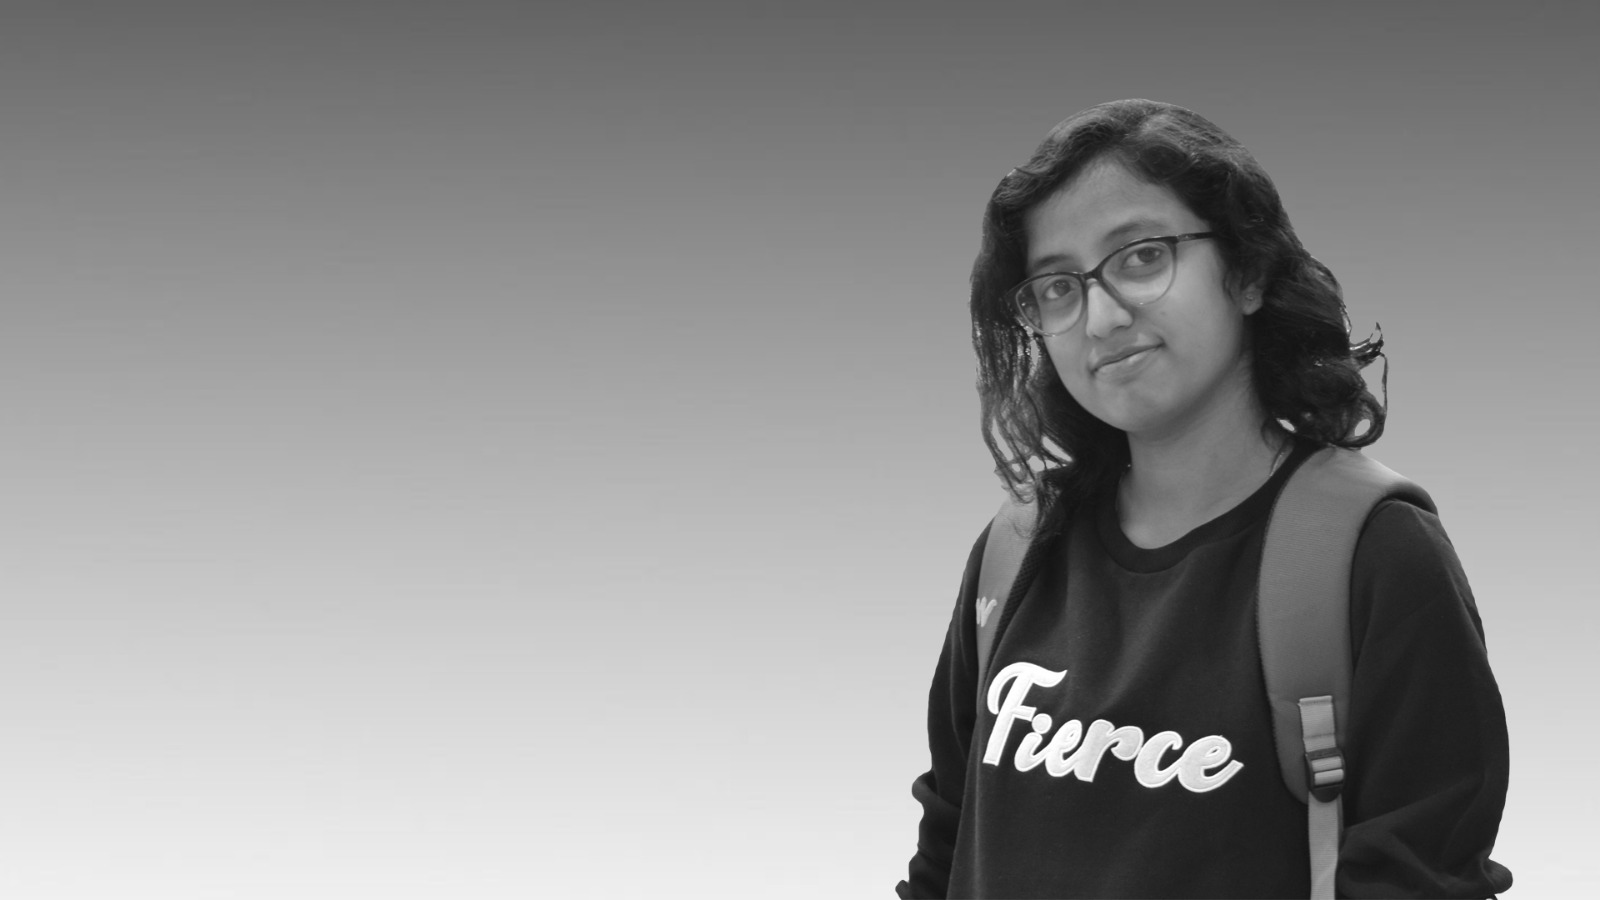
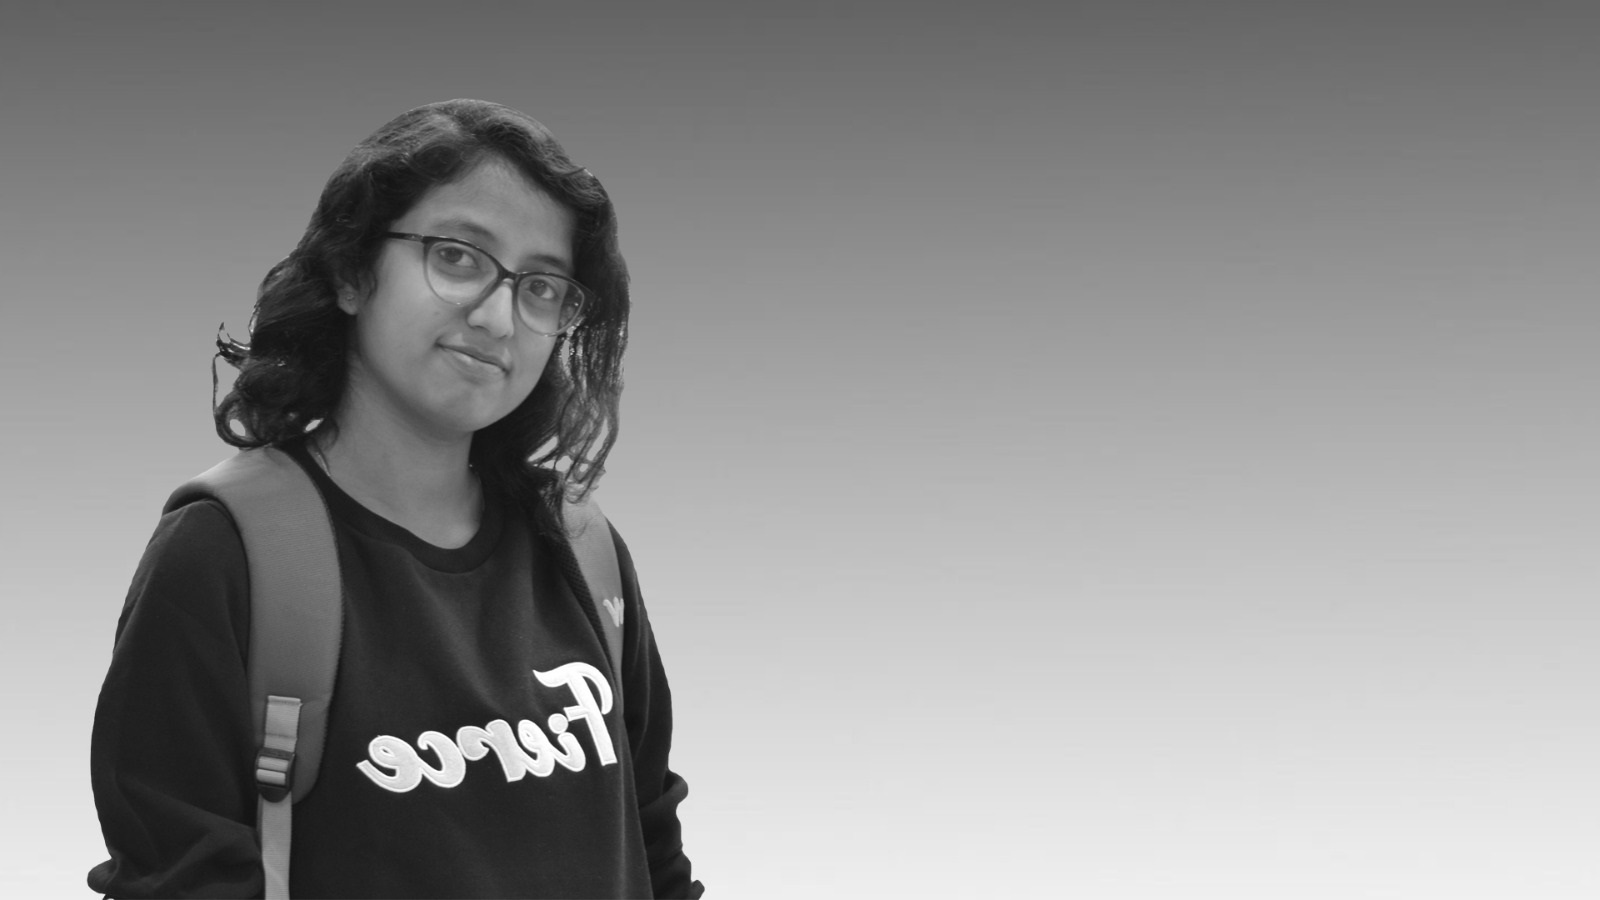
updation

diff --git a/index.html b/index.html
@@ -66,14 +66,14 @@
   <!-----------------Background End------------------------>
 
   <!-----------------------About Start (we will use BootStrap Grids Here)------------------------->
-  <div id="about" class="offset container-fluid mt-5 mb-5">
+  <div id="about" class="offset container-fluid mt-4 mb-5">
     <div class="post-heading text-center">
       <h3 class="display-4 font-weight-bold">About Me</h3>
       <hr class="w-50 mx-auto pb-5">
     </div>
     <div class="row">
       <div class="col-lg-6 col-md-6 col-12 pb-4">
-        <img src="/img/back1.jpg" class="img-fluid">
+        <img src="/img/back2.jpg" class="img-fluid">
       </div>
       <div class="col-lg-6 col-md-6 col-12">
         <h2>Wanna Know Me?</h2>
@@ -92,7 +92,7 @@
  
   <!-----------------------Tech-Stacks Start------------------------->
 
- <div id="tech-stacks" class="offset w-80 mx-auto mt-5 mb-5">
+ <div id="tech-stacks" class="offset w-80 mx-auto mt-4 mb-5">
   <div class="post-heading text-center">
       <h3 class="display-4 font-weight-bold">Tech Stacks</h3>
       <hr>
@@ -111,7 +111,7 @@
 <!-----------------------Tech-Stacks End------------------------->
 
 <!-----------------------Projects Start------------------------->
-<div id="projects" class="offset container-fluid mt-1 mb-5 mx-auto">
+<div id="projects" class="offset container-fluid mt-4 mb-5 mx-auto">
   <div class="post-heading text-center">
     <h3 class="display-4 font-weight-bold">Projects</h3>
     <hr class="w-50 mx-auto pb-5">
@@ -133,7 +133,7 @@
         <div class="card-body">
           <h5 class="card-title">My Creative Repository</h5>
           <p class="card-text">Elevate your digital presence with a bespoke portfolio website showcasing your skills and achievements. Crafted with cutting-edge technologies like HTML5, CSS3, JavaScript, and Bootstrap, my portfolio highlights my passion for creating impactful user experiences and innovative solutions. Explore my journey and projects that reflect my dedication to excellence and creativity.</p>
-          <a href="#" class="btn btn-dark">Go Live</a>
+          <a href="https://my-creative-repository.onrender.com" class="btn btn-dark">Go Live</a>
         </div>
       </div>
     </div>
@@ -149,7 +149,7 @@
   <!-----------------------Projects End------------------------->
 
   <!-----------------------Contact Start------------------------->
-  <div id="contact" class="offset w-50 mx-auto mt-5 mb-5">
+  <div id="contact" class="offset w-50 mx-auto mt-4 mb-5">
     <div class="post-heading text-center">
         <h3 class="display-4 font-weight-bold">Contact Me</h3>
         <hr class="w-50 mx-auto pb-3">
@@ -160,7 +160,7 @@
         <li><i class="fab fa-linkedin contact-icons"></i><strong>LinkedIn:</strong> <a href="https://www.linkedin.com/in/kirti-salini-beuria" target="_blank">linkedin.com/in/kirti-salini-beuria</a></li>
         <li><i class="fab fa-github contact-icons"></i><strong>GitHub:</strong> <a href="https://github.com/kirti-salini" target="_blank">github.com/kirti-salini</a></li>
         <li><strong>Leetcode:</strong> <a href="https://leetcode.com/kirtisalini" target="_blank">leetcode.com/kirtisalini</a> (Rating: 1472)</li>
-        <li><strong>CodeChef:</strong> <a href="https://www.codechef.com/users/kirti%20salini" target="_blank">codechef.com/users/kirti salini</a> (2*, Rating: 1436)</li>
+        <li><strong>CodeChef:</strong> <a href="https://www.codechef.com/users/kirti_salini" target="_blank">codechef.com/users/kirti salini</a> (2*, Rating: 1436)</li>
         <li><strong>HackerRank:</strong> <a href="https://www.hackerrank.com/profile/kirtisalini" target="_blank">hackerrank.com/profile/kirtisalini</a></li>
         <li><strong>codingninjas:</strong> <a href="https://www.naukri.com/code360/profile/kirti_salini" target="_blank">naukri.com/code360/profile/kirti_salini</a></li>
     </ul>

diff --git a/README.md b/README.md
@@ -1,5 +1,9 @@
 # Bootstrap Portfolio Website
 
+![service1](https://github.com/kirti-salini/My-Portfolio/assets/117555508/cd6e9157-877a-4342-8943-52c31a67b706)
+
+Go Live: https://my-creative-repository.onrender.com/
+
 ## How to Create a Portfolio Website Using HTML, CSS, and Bootstrap
 
 ### Setting Up Your Development Environment
